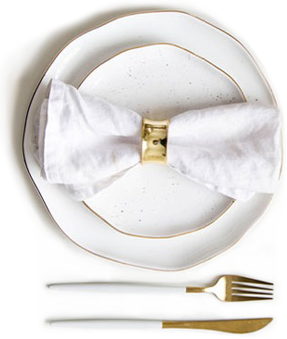
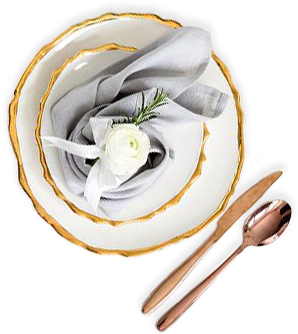
pics in offer are changed

diff --git a/css/main.css b/css/main.css
@@ -83,8 +83,8 @@ a{cursor: pointer;}
 #offer{text-align: center;padding: 140px 0;position: relative;}
 #offer h2{line-height: 55px;}
 #offer a{margin-top: 50px;}
-#offer .petrushka{position: absolute;left: -135px;top: 20%; z-index: -1}
-#offer .basilik{ z-index: -1;position: absolute;right: 0;display: inline-block;top: 60px;height: 400px;vertical-align: middle; background-position: 130% 100%; background-repeat: no-repeat;	background-image: url(../img/img-right.png);	width: 400px;	align-items: center;}
+#offer .petrushka{position: absolute;left: -110px;top: 20%; z-index: -1}
+#offer .basilik{ z-index: -1;position: absolute;right: 0;display: inline-block;top: 0;height: 400px;vertical-align: middle; background-position: 300% 100%; background-repeat: no-repeat;	background-image: url(../img/img-right.png);	width: 400px;	align-items: center;}
 
 /* ABOUT */
 
@@ -821,6 +821,10 @@ a{cursor: pointer;}
 	.slider_conatiner {width: 60%;left: 20%;}
 }
 
+@media (min-width: 375px) and (max-width: 425px) {
+	#offer .petrushka {left: -160px!important;top: 38px!important;}
+}
+
 @media(max-width: 700px){
     body {overflow-x:hidden;}
     html {overflow-x:hidden;}
@@ -866,8 +870,8 @@ a{cursor: pointer;}
 	.zay-allowed-modal-container{display: grid;}
 
 	#offer .petrushka img{height: 280px;}
-	#offer .petrushka {left: -150px;top: 90px;}
-	#offer .basilik {right: -34px;top: 234px;background-position: 235px center; background-size: contain;}
+	#offer .petrushka {left: -160px;top: 98px;}
+	#offer .basilik {transform: scale(0.7);right: -60px;top: 234px;background-position: 235px center; background-size: contain;}
 	#offer h2{padding: 0 15px;font-size: 24px;line-height: 40px;font-weight:bold; margin: 0 24px;}
     #about{ display: none}
 	#about .swiper-slide{padding: 20px 0;}

diff --git a/index.html b/index.html
@@ -203,7 +203,8 @@ if(/Android [4-6]/.test(navigator.appVersion)) {
         </div>
     </section>
     <section id="offer">
-        <h2 style="z-index: 1;">Создадим ресторан там, где вы захотите<br>Закажите готовое меню на лучших условиях</h2>
+        <h2 style="z-index: 1;">Ресторан выездного обслуживания <br>
+                Закажите готовое меню на лучших условиях</h2>
         <a class="offer-btn modal-opn-order">Скачать презентацию</a>
         <div class="petrushka wow fadeInLeft"><img src="img/img-left.png" /></div>
         <div class="basilik wow fadeInRight"></div>
